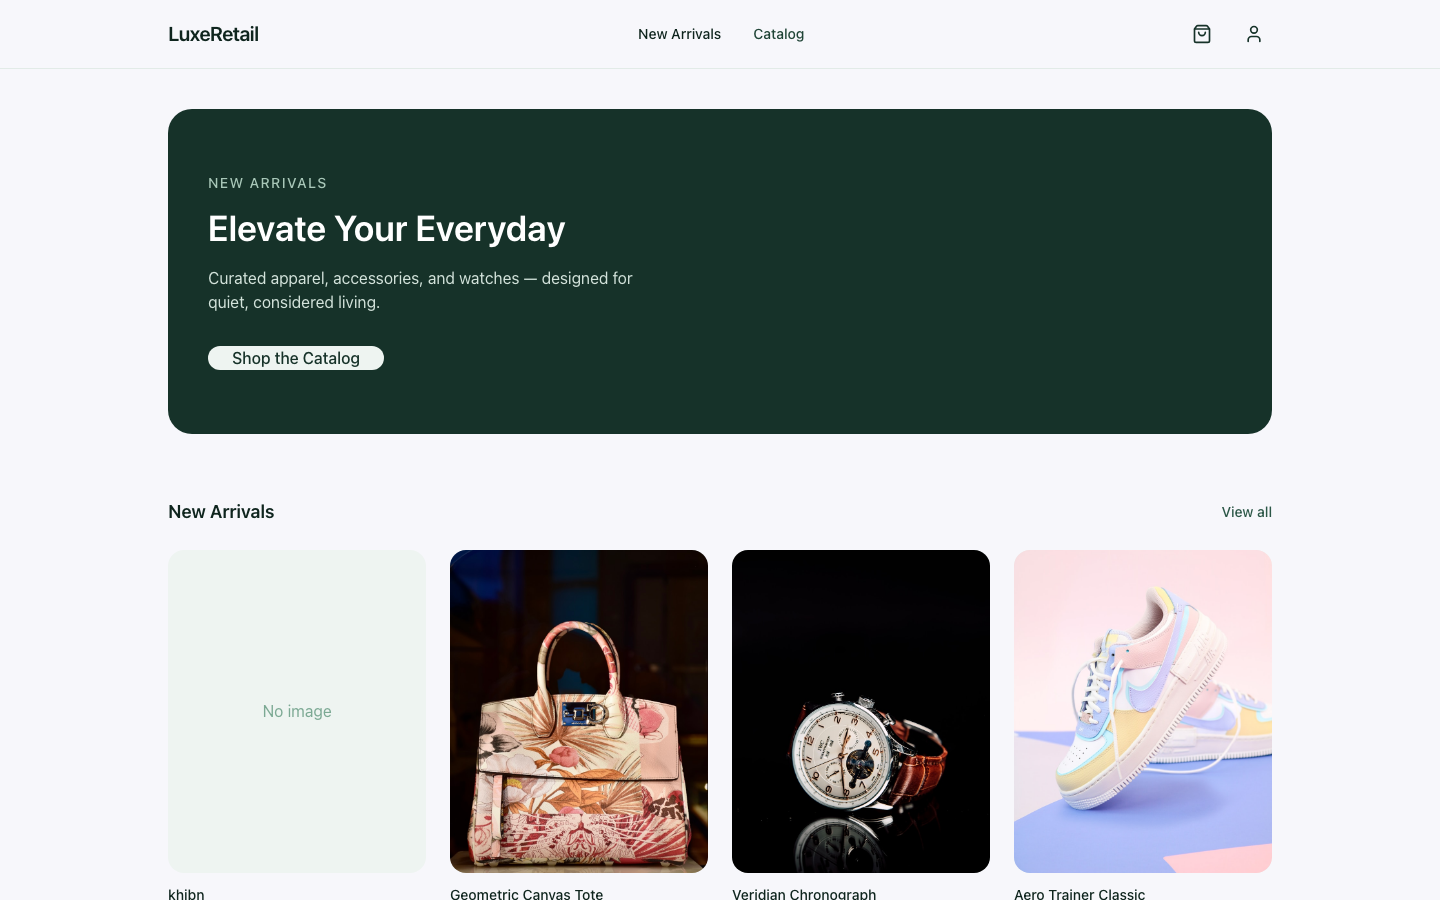
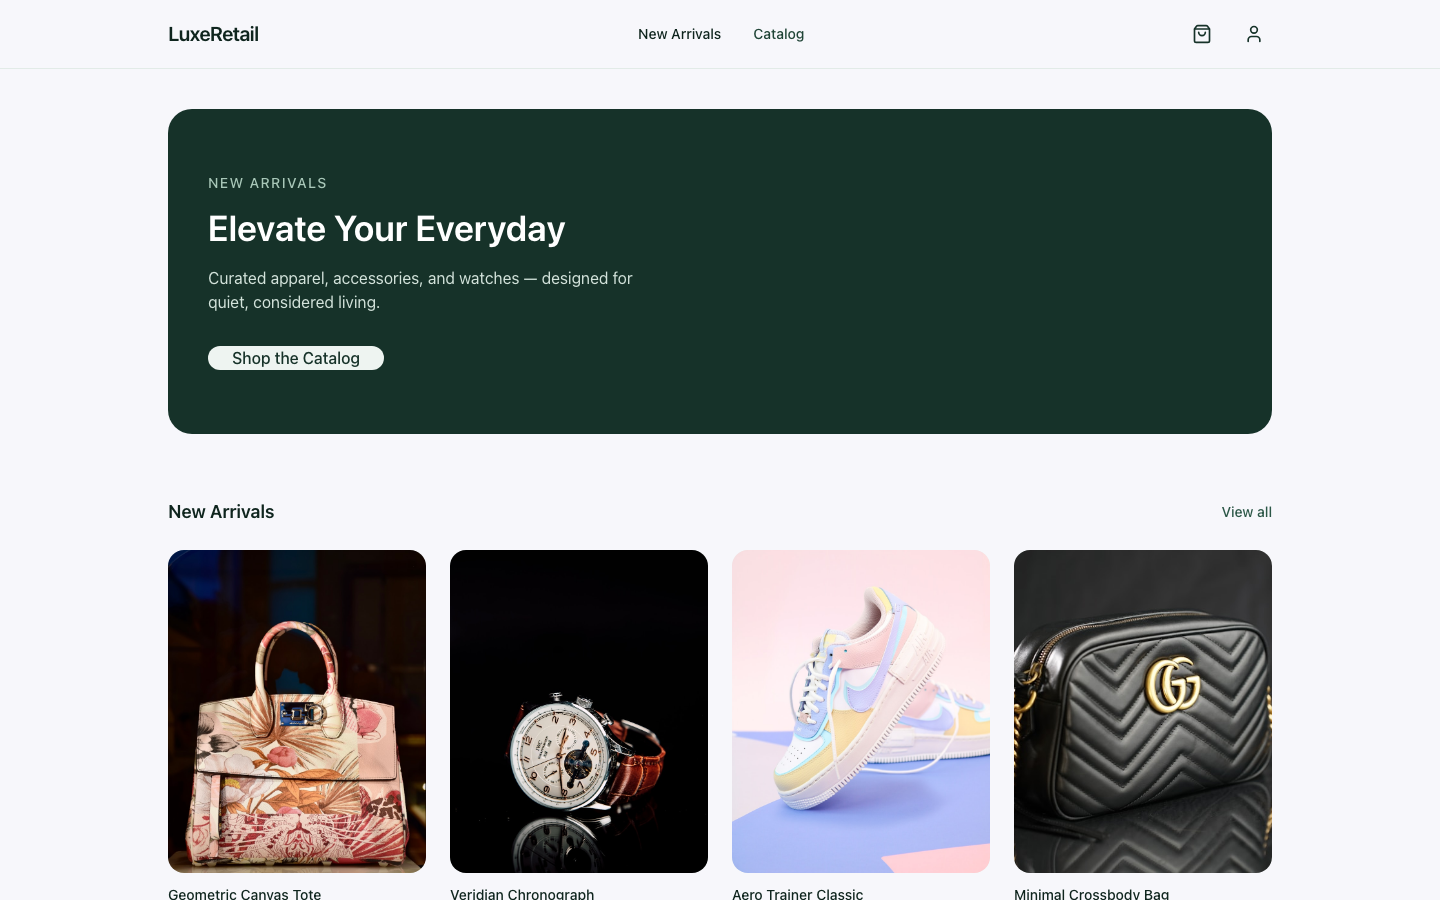
docs: remove test product, expand README screenshots
Deleted the "khjbn" test product (no image, added while testing) via the
admin API, then re-captured screenshots against the clean seeded catalog
and added coverage beyond the home page and dashboard: storefront catalog,
product detail, and cart, plus the admin products and orders lists.

Changed region(s): [[0.0938, 0.5911, 0.9062, 1.0]]

diff --git a/README.md b/README.md
@@ -89,10 +89,24 @@ globally to drop it (`nx run-many ...`).
 
 ## Screenshots
 
+**Storefront**
+
 <div align="center">
-  <img src="./docs/screenshots/storefront-home.png" width="900" alt="LuxeRetail storefront home screen" />
-  <br />
-  <img src="./docs/screenshots/admin-dashboard.png" width="900" alt="LuxeRetail admin dashboard" />
+  <img src="./docs/screenshots/storefront-home.png" width="900" alt="Storefront home screen" />
+  <br /><br />
+  <img src="./docs/screenshots/storefront-catalog.png" width="440" alt="Storefront catalog" />
+  <img src="./docs/screenshots/storefront-product-detail.png" width="440" alt="Storefront product detail" />
+  <br /><br />
+  <img src="./docs/screenshots/storefront-cart.png" width="900" alt="Storefront cart" />
+</div>
+
+**Admin**
+
+<div align="center">
+  <img src="./docs/screenshots/admin-dashboard.png" width="900" alt="Admin dashboard" />
+  <br /><br />
+  <img src="./docs/screenshots/admin-products.png" width="440" alt="Admin products list" />
+  <img src="./docs/screenshots/admin-orders.png" width="440" alt="Admin orders list" />
 </div>
 
 ## Mobile app: EAS Build & OTA updates
